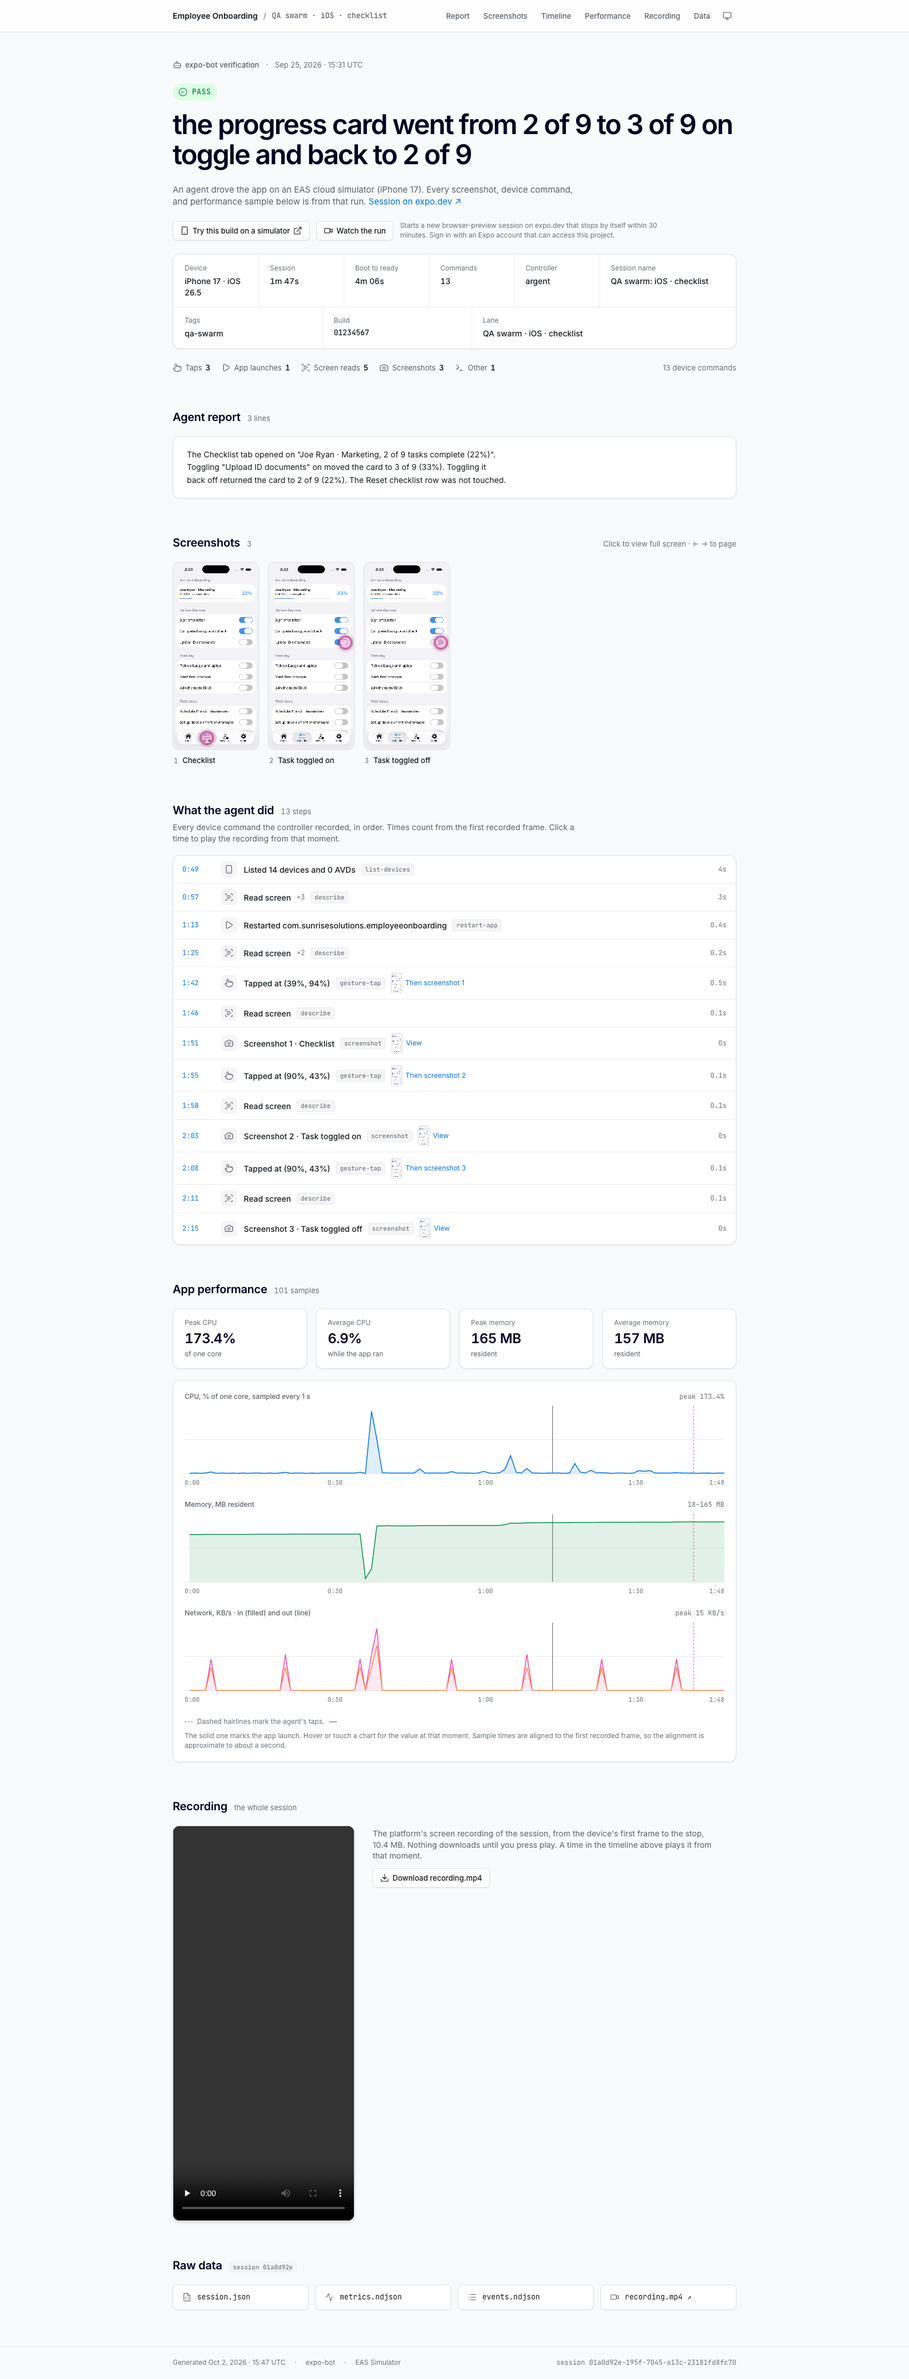
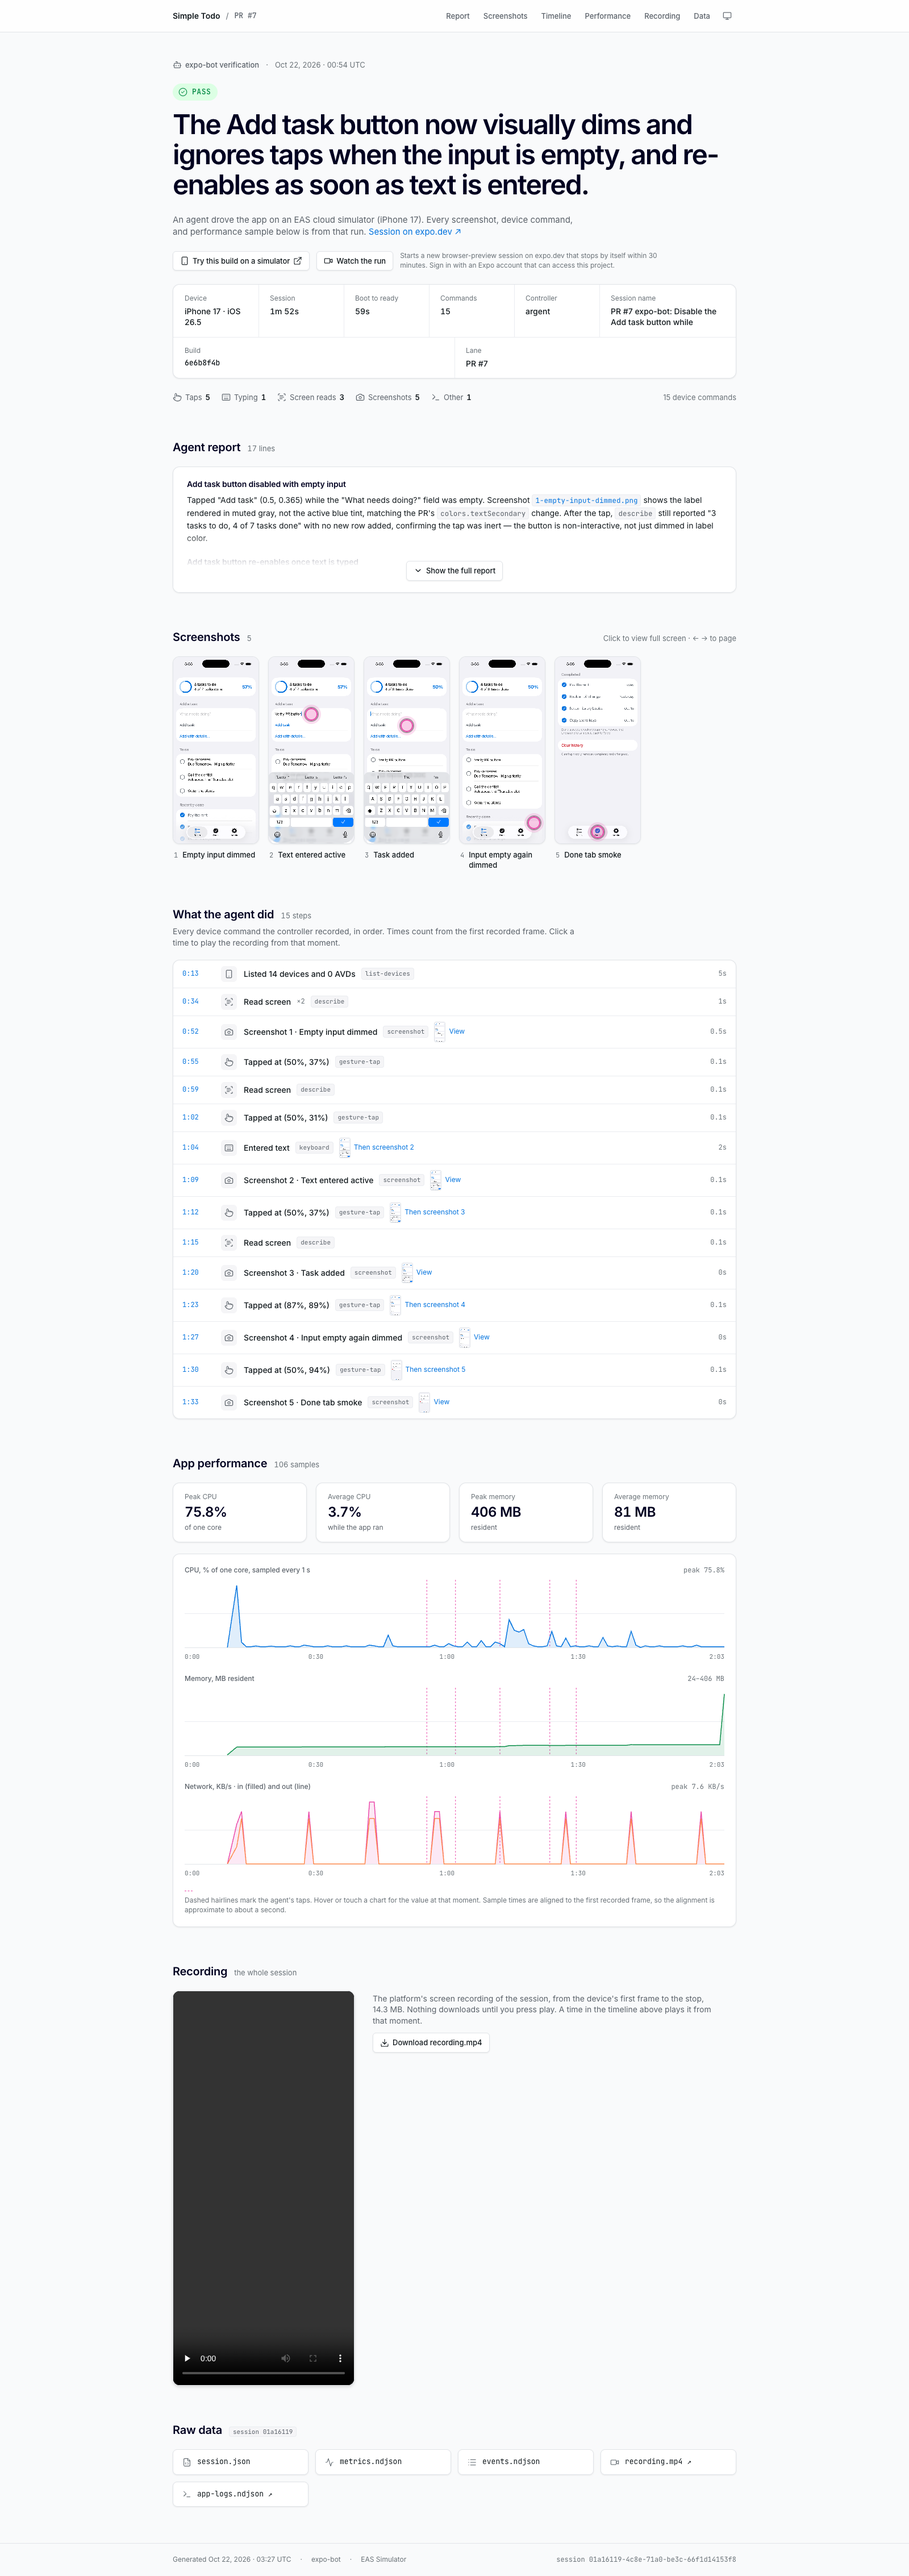
README: live demo is the todo-app PR 7 verification run

diff --git a/README.md b/README.md
@@ -12,11 +12,11 @@
 </p>
 
 <p align="center">
-  <a href="https://employee-onboarding--evidence-demo.expo.app"><img src="docs/screenshot.png" alt="A whole evidence page: the PASS verdict and run facts, the agent's report, three screenshots with the taps marked, the action timeline, the CPU, memory, and network charts, the recording, and the raw data" width="800"></a>
+  <a href="https://simple-todo--evidence-demo.expo.app"><img src="docs/screenshot.png" alt="A whole evidence page: the PASS verdict and run facts, the agent's report, five screenshots with the taps marked, the action timeline, the CPU, memory, and network charts, the recording, and the raw data" width="800"></a>
 </p>
 
 <p align="center">
-  <a href="https://employee-onboarding--evidence-demo.expo.app"><strong>Open the live page</strong></a> · a real run, hosted on EAS Hosting
+  <a href="https://simple-todo--evidence-demo.expo.app"><strong>Open the live page</strong></a> · the verification run from <a href="https://github.com/jacobhammerle/todo-app/pull/7">a real pull request</a>, hosted on EAS Hosting
 </p>
 
 <br>
@@ -33,7 +33,7 @@ An agent or a script drives your app on an EAS Simulator. When the session ends,
 
 ## Give it a try
 
-No simulator and no Expo account needed. The run behind the [live page](https://employee-onboarding--evidence-demo.expo.app) is in the repo.
+No simulator and no Expo account needed. A real run is checked into the repo, so you can build a page locally. The [live page](https://simple-todo--evidence-demo.expo.app) comes from [todo-app](https://github.com/jacobhammerle/todo-app), an Expo SDK 58 app whose pull requests are verified by an agent on EAS Simulator.
 
 ```sh
 git clone https://github.com/jacobhammerle/eas-simulator-evidence

diff --git a/CHANGELOG.md b/CHANGELOG.md
@@ -7,6 +7,10 @@ and this project adheres to [Semantic Versioning](https://semver.org/spec/v2.0.0
 
 ## [Unreleased]
 
+### Changed
+
+- README: the live demo page and the screenshot now come from the agent verification run on [todo-app pull request 7](https://github.com/jacobhammerle/todo-app/pull/7), an Expo SDK 58 app, instead of the checked-in fixture.
+
 ## [0.2.3] - 2026-10-17
 
 ### Added
